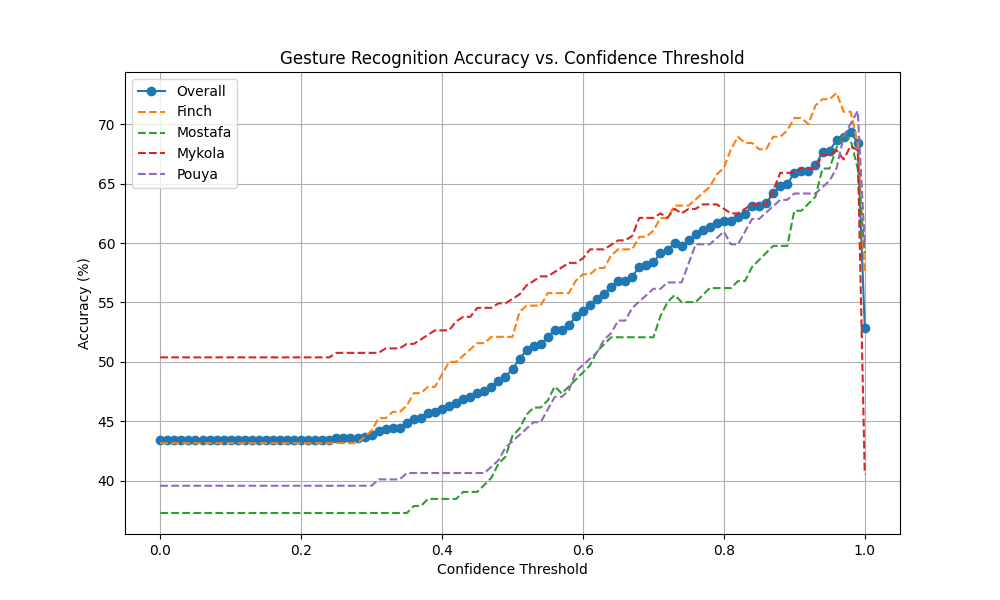
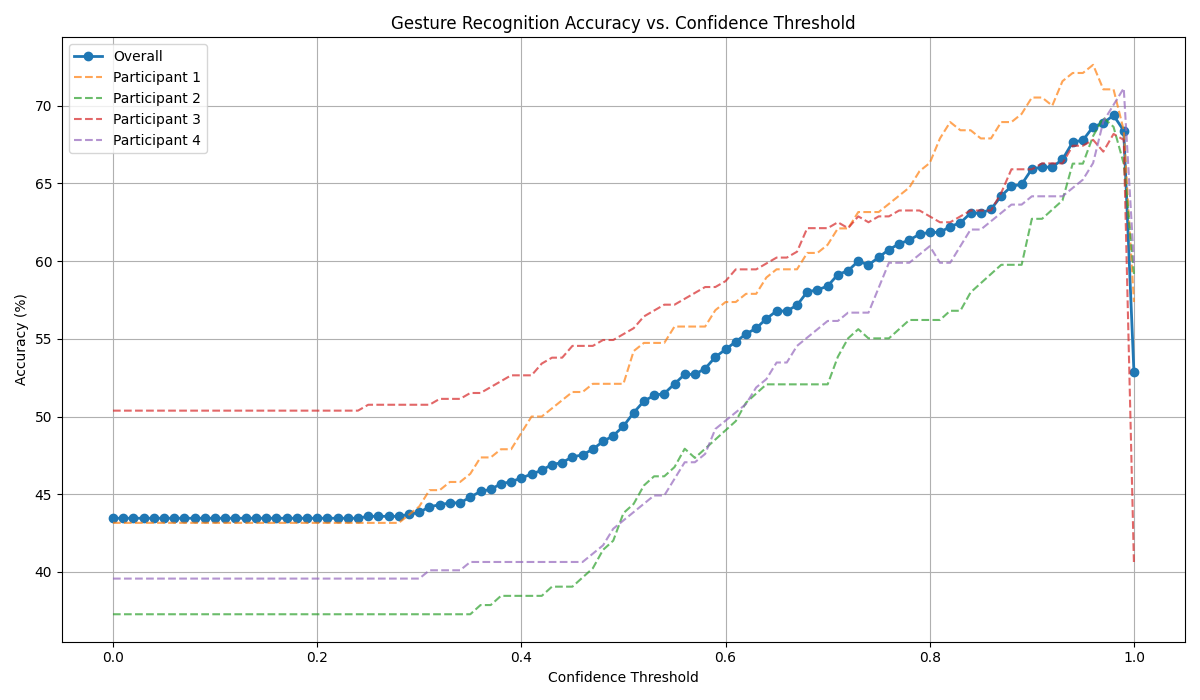
anonymized names on accuracy graph

diff --git a/offline_evaluator.py b/offline_evaluator.py
@@ -143,21 +143,26 @@ def evaluate_participants_with_threshold(left_hand_model, right_hand_model, conf
 def evaluate_all_thresholds():
     """
     Evaluate participant data with different confidence thresholds 
-    and plot accuracy against threshold.
+    and plot accuracy against threshold using anonymized participant names.
     """
     print("Loading pretrained models from train_model.py...")
     left_hand_model, right_hand_model = get_trained_models()
+
+    # Get unique participant names for anonymization
+    participant_names = sorted([p for p in os.listdir(PARTICIPANTS_DATA_PATH) if os.path.isdir(os.path.join(PARTICIPANTS_DATA_PATH, p))])
+    participant_map = {name: f"Participant {i+1}" for i, name in enumerate(participant_names)}
     
-    # Thresholds from 0.0 to 0.9, incrementing by 0.01
+    # Thresholds from 0.0 to 1.0, incrementing by 0.01
     thresholds = np.arange(0.0, 1.01, 0.01)
     all_results = []
     threshold_accuracies = []
     
-    # Also track per-participant accuracies at different thresholds
-    participant_accuracies = {}
+    # Track per-participant accuracies using anonymized names
+    participant_accuracies = {anon_name: [] for anon_name in participant_map.values()}
     
     for threshold in thresholds:
         print(f"\nEvaluating with confidence threshold: {threshold:.2f}")
+        # Pass the participant map to the evaluation function if needed, or apply mapping after
         results = evaluate_participants_with_threshold(left_hand_model, right_hand_model, threshold)
         all_results.extend(results)
         
@@ -168,33 +173,51 @@ def evaluate_all_thresholds():
             threshold_accuracies.append(accuracy)
             print(f"Accuracy at threshold {threshold:.2f}: {accuracy:.2f}%")
             
-            # Calculate per-participant accuracy
+            # Calculate per-participant accuracy and map to anonymized names
             participant_stats = threshold_df.groupby("Participant")["Correct"].mean() * 100
+            # Ensure all participants (even those with 0 accuracy) are represented for this threshold
+            current_threshold_participant_acc = {anon_name: 0.0 for anon_name in participant_map.values()}
             for participant, acc in participant_stats.items():
-                if participant not in participant_accuracies:
-                    participant_accuracies[participant] = []
-                participant_accuracies[participant].append(acc)
+                if participant in participant_map: # Check if participant is in our map
+                    anonymized_name = participant_map[participant]
+                    current_threshold_participant_acc[anonymized_name] = acc
+                else:
+                     print(f"Warning: Participant '{participant}' found in data but not in initial directory scan.")
+
+            # Append the accuracy for each anonymized participant for the current threshold
+            for anonymized_name, acc in current_threshold_participant_acc.items():
+                 participant_accuracies[anonymized_name].append(acc)
+
         else:
             threshold_accuracies.append(0)
+            # Append 0 accuracy for all participants if no results for this threshold
+            for anonymized_name in participant_accuracies:
+                participant_accuracies[anonymized_name].append(0)
             print(f"No valid results for threshold {threshold:.2f}")
     
-    # Save all results to CSV
+    # Save all results to CSV (original participant names are still in this raw data)
     results_df = pd.DataFrame(all_results)
     results_df.to_csv("evaluation_results_all_thresholds.csv", index=False)
     
     # Plot threshold vs accuracy
-    plt.figure(figsize=(10, 6))
-    plt.plot(thresholds, threshold_accuracies, marker='o', linestyle='-', label='Overall')
+    plt.figure(figsize=(12, 7)) # Adjusted size slightly
+    plt.plot(thresholds, threshold_accuracies, marker='o', linestyle='-', label='Overall', linewidth=2)
     
-    # Add per-participant accuracy lines
-    for participant, accuracies in participant_accuracies.items():
-        plt.plot(thresholds, accuracies, linestyle='--', label=participant)
+    # Add per-participant accuracy lines using anonymized names
+    for anonymized_name, accuracies in participant_accuracies.items():
+         # Ensure the length matches the number of thresholds
+        if len(accuracies) == len(thresholds):
+            plt.plot(thresholds, accuracies, linestyle='--', label=anonymized_name, alpha=0.7)
+        else:
+            print(f"Warning: Length mismatch for {anonymized_name}. Expected {len(thresholds)}, got {len(accuracies)}. Skipping plot line.")
+
     
     plt.xlabel('Confidence Threshold')
     plt.ylabel('Accuracy (%)')
     plt.title('Gesture Recognition Accuracy vs. Confidence Threshold')
     plt.grid(True)
-    plt.legend()
+    plt.legend(loc='best') # Changed legend location for potentially better placement
+    plt.tight_layout() # Adjust layout
     plt.savefig('threshold_vs_accuracy.png')
     plt.show()
     
@@ -204,15 +227,20 @@ def evaluate_all_thresholds():
     best_accuracy = threshold_accuracies[best_idx]
     print(f"\nBest threshold: {best_threshold:.2f} with accuracy: {best_accuracy:.2f}%")
     
-    # Save threshold vs accuracy data
+    # Save threshold vs accuracy data with anonymized participant columns
     threshold_data = pd.DataFrame({
         'Threshold': thresholds,
-        'Accuracy': threshold_accuracies
+        'Overall_Accuracy': threshold_accuracies # Renamed for clarity
     })
     
-    # Add per-participant accuracy columns
-    for participant, accuracies in participant_accuracies.items():
-        threshold_data[participant] = accuracies
+    # Add per-participant accuracy columns using anonymized names
+    for anonymized_name, accuracies in participant_accuracies.items():
+        # Ensure the length matches before adding the column
+        if len(accuracies) == len(thresholds):
+            threshold_data[anonymized_name] = accuracies
+        else:
+             print(f"Warning: Length mismatch for {anonymized_name}. Cannot add column to threshold_vs_accuracy.csv.")
+
         
     threshold_data.to_csv("threshold_vs_accuracy.csv", index=False)
     
